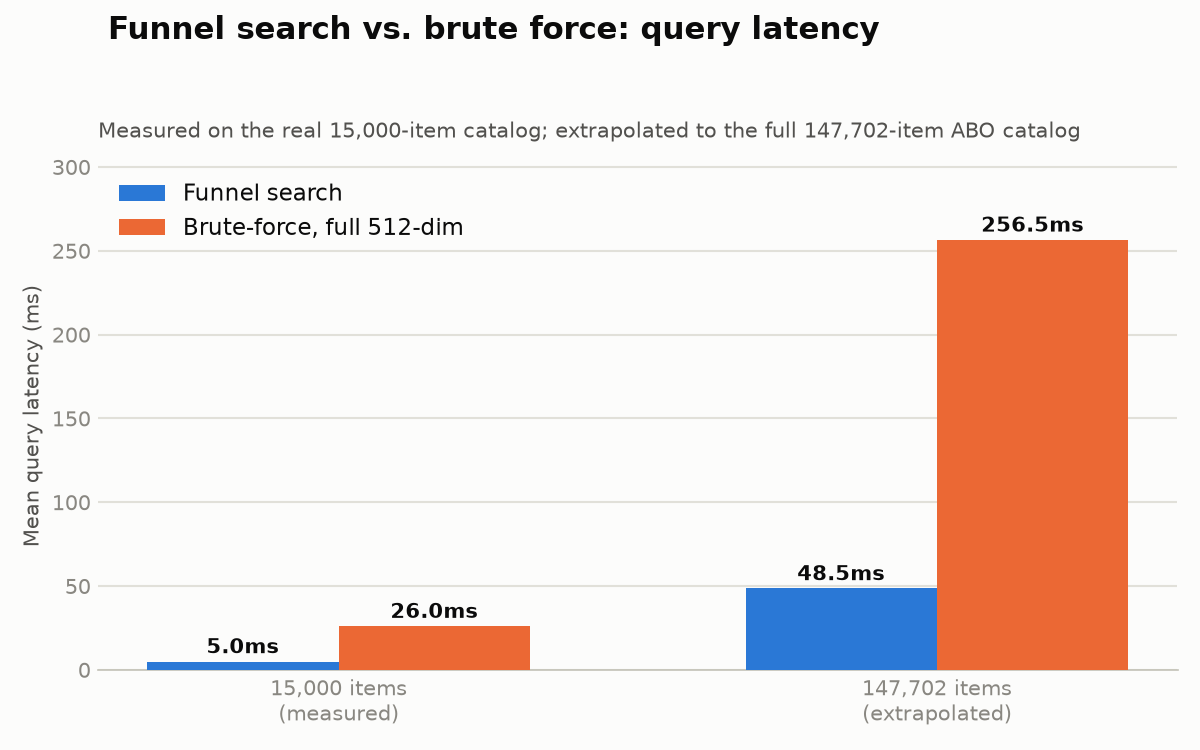
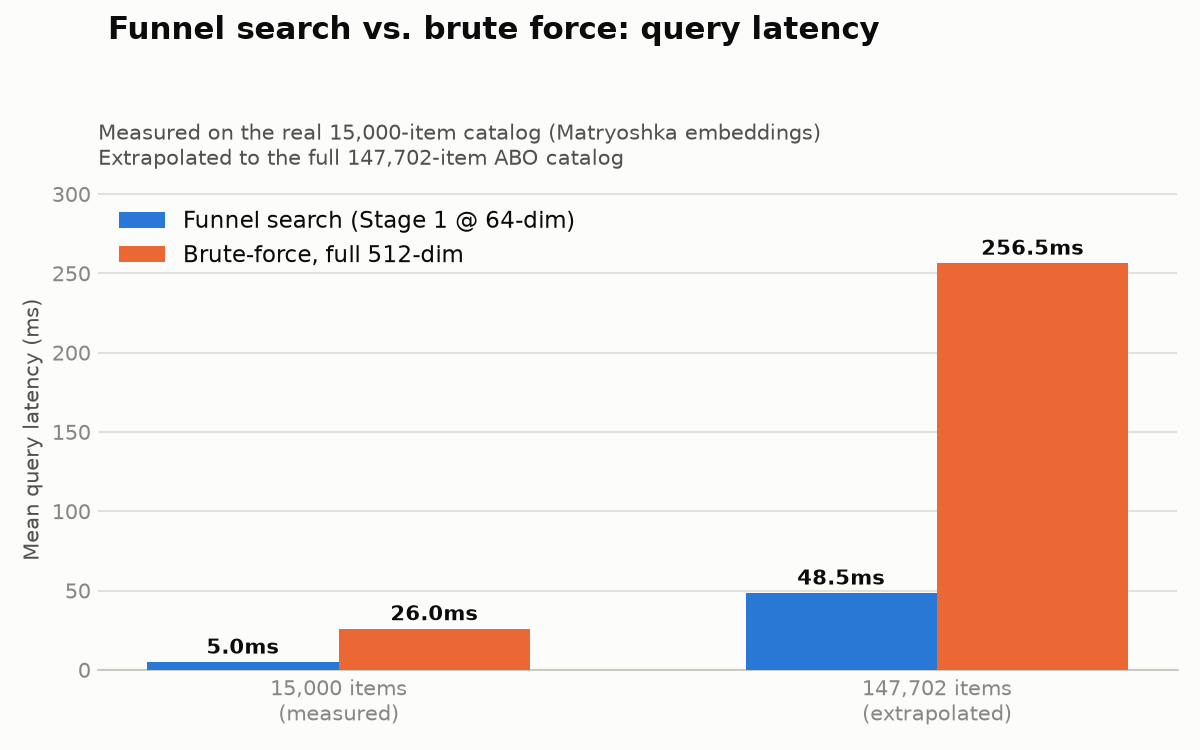
Fix latency numbers disagreeing between README prose and chart

diff --git a/scripts/generate_result_charts.py b/scripts/generate_result_charts.py
@@ -123,11 +123,25 @@ def plot_recall_by_dimension(report: dict) -> None:
     plt.close(fig)
 
 
-def plot_latency_comparison(report: dict) -> None:
+def plot_latency_comparison(report: dict) -> dict:
+    """Returns the plotted numbers (ms) so `main()` can print a copy-pasteable
+    summary — the exact prevention for the bug this replaced: this script and
+    scripts/evaluate.py both independently wall-clock-benchmark "brute-force
+    full-dim vs. funnel search," and two independent benchmark runs on a
+    shared dev machine do NOT agree to the millisecond (20.1ms vs. 26.0ms was
+    observed for the *same* operation across two runs — ordinary noise, not a
+    bug in either measurement). `cost_projection_report.json` (this report)
+    is the sole source for any latency number quoted publicly (README,
+    docs/08_results.md's Cost Projection section) — scripts/evaluate.py's own
+    latency numbers exist only to compare Matryoshka-vs-baseline latency
+    (docs/08_results.md's Week 3 Latency section), never to be re-quoted here
+    or in the README as if they were the same measurement.
+    """
     measured = report["measured_latency_seconds"]
     extrapolated = report["extrapolated_latency_seconds_at_full_catalog"]
     n_measured = report["n_measured"]
     n_full = report["full_catalog_size"]
+    low_dim = report["funnel_low_dim"]
 
     funnel_ms = [
         (measured["funnel_stage1"] + measured["funnel_stage2"]) * 1000,
@@ -138,6 +152,7 @@ def plot_latency_comparison(report: dict) -> None:
         extrapolated["brute_force_full_dim"] * 1000,
     ]
     group_labels = [f"{n_measured:,} items\n(measured)", f"{n_full:,} items\n(extrapolated)"]
+    funnel_label = f"Funnel search (Stage 1 @ {low_dim}-dim)"
 
     fig, ax = plt.subplots(figsize=(8, 5), dpi=150)
     _style_axes(ax)
@@ -145,7 +160,7 @@ def plot_latency_comparison(report: dict) -> None:
     x = [0, 1]
     width = 0.32
     bars_funnel = ax.bar(
-        [xi - width / 2 for xi in x], funnel_ms, width, color=BLUE, label="Funnel search", zorder=3
+        [xi - width / 2 for xi in x], funnel_ms, width, color=BLUE, label=funnel_label, zorder=3
     )
     bars_brute = ax.bar(
         [xi + width / 2 for xi in x],
@@ -186,8 +201,8 @@ def plot_latency_comparison(report: dict) -> None:
         fontweight="bold",
     )
     ax.set_title(
-        "Measured on the real 15,000-item catalog; extrapolated to the full "
-        "147,702-item ABO catalog",
+        "Measured on the real 15,000-item catalog (Matryoshka embeddings)\n"
+        "Extrapolated to the full 147,702-item ABO catalog",
         loc="left",
         fontsize=10,
         color=INK_SECONDARY,
@@ -199,6 +214,16 @@ def plot_latency_comparison(report: dict) -> None:
     fig.savefig(ASSETS_DIR / "latency_comparison.png")
     plt.close(fig)
 
+    return {
+        "low_dim": low_dim,
+        "measured_funnel_ms": funnel_ms[0],
+        "measured_brute_force_ms": brute_force_ms[0],
+        "extrapolated_funnel_ms": funnel_ms[1],
+        "extrapolated_brute_force_ms": brute_force_ms[1],
+        "n_measured": n_measured,
+        "n_full": n_full,
+    }
+
 
 def main() -> None:
     evaluation_report = json.loads(
@@ -209,9 +234,26 @@ def main() -> None:
     )
 
     plot_recall_by_dimension(evaluation_report)
-    plot_latency_comparison(cost_projection_report)
+    latency = plot_latency_comparison(cost_projection_report)
     print(f"Wrote {ASSETS_DIR / 'recall_by_dimension.png'}")
     print(f"Wrote {ASSETS_DIR / 'latency_comparison.png'}")
+
+    speedup_measured = latency["measured_brute_force_ms"] / latency["measured_funnel_ms"]
+    speedup_extrapolated = (
+        latency["extrapolated_brute_force_ms"] / latency["extrapolated_funnel_ms"]
+    )
+    print(
+        "\nCopy these into README.md / docs/08_results.md prose verbatim — do not "
+        "hand-type or re-derive latency numbers from a different script's report; "
+        "that's what caused prose and chart to disagree last time:\n"
+        f"  Measured ({latency['n_measured']:,} items): "
+        f"{latency['measured_brute_force_ms']:.1f}ms -> "
+        f"{latency['measured_funnel_ms']:.1f}ms (~{speedup_measured:.1f}x), "
+        f"Stage 1 @ {latency['low_dim']}-dim\n"
+        f"  Extrapolated ({latency['n_full']:,} items): "
+        f"{latency['extrapolated_brute_force_ms']:.1f}ms -> "
+        f"{latency['extrapolated_funnel_ms']:.1f}ms (~{speedup_extrapolated:.1f}x)"
+    )
 
 
 if __name__ == "__main__":

diff --git a/README.md b/README.md
@@ -115,22 +115,31 @@ dimensions, nDCG@10, funnel-search-specific retention, honest discussion of
 where the gap to the literature widens at aggressive truncation, and why).
 
 **Funnel search vs. brute force** (Stage 1 low-dim + Stage 2 full-dim
-rerank, real latency on the 15,000-item catalog): **~4.2x faster** (20.1ms →
-4.8ms per query) for a 1.5-point Recall@10 cost at `low_dim=64`. At a more
+rerank; latency measured directly on the real 15,000-item catalog by
+`scripts/cost_projection.py` — see chart below): **~5.2x faster** (26.0ms →
+5.0ms per query) at `low_dim=64`, for a 1.5-point Recall@10 cost (98.5%
+funnel retention vs. brute force, a separate quality-only measurement from
+`scripts/evaluate.py`, unaffected by wall-clock timing). At a more
 aggressive `low_dim=16`, the MRL model still recovers 93.6% of brute-force
 recall — the baseline collapses to 62% — which is the specific scenario this
-whole project exists to demonstrate.
+whole project exists to demonstrate. (`scripts/evaluate.py` runs its own,
+separate latency benchmark too, for a different question — is latency the
+same regardless of which model produced the embeddings — see
+[docs/08_results.md](./docs/08_results.md); its absolute numbers differ
+slightly from the ones here, which is expected wall-clock noise between two
+independent benchmark runs, not a discrepancy — this README only ever
+quotes the `cost_projection.py` numbers, matching the chart.)
 
 <div align="center">
 <img src="./assets/latency_comparison.png" alt="Grouped bar chart of mean query latency: at 15,000 items (measured), funnel search is 5.0ms vs. 26.0ms brute force; at 147,702 items (extrapolated), funnel search is 48.5ms vs. 256.5ms brute force" width="85%" />
 </div>
 
-**Cost projection to the full 147,702 item ABO catalog** (extrapolated from
-the 15,000 item measurements, not separately measured — see
+**Cost projection to the full 147,702-item ABO catalog** (extrapolated from
+the same 15,000-item measurement above, not separately measured — see
 [docs/08_results.md](./docs/08_results.md) for the full breakdown and
 stated scaling assumptions): brute-force full-dim search extrapolates to
-~257ms/query vs. ~49ms for funnel search (~5.2x). A plain full-dim
-brute-force search would cross a 100ms interactive-latency budget at
+~256.5ms/query vs. ~48.5ms for funnel search (~5.3x at that scale). A plain
+full-dim brute-force search would cross a 100ms interactive-latency budget at
 ~57,600 items — below this catalog's size — but Stage 1 as actually built
 here (low-dim, not full-dim) has its own much higher viability threshold,
 ~304,700 items, comfortably past 147,702. Storage: one 512-dim float32
